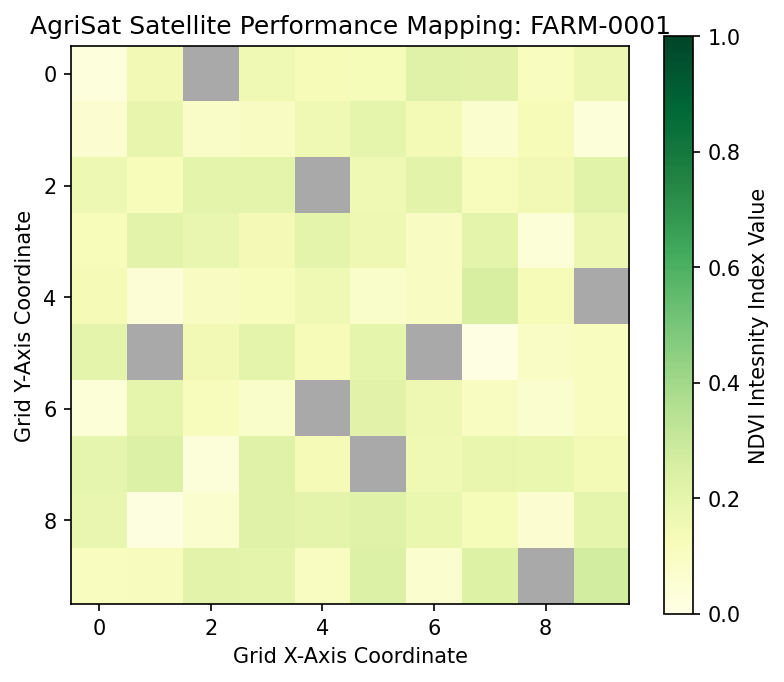
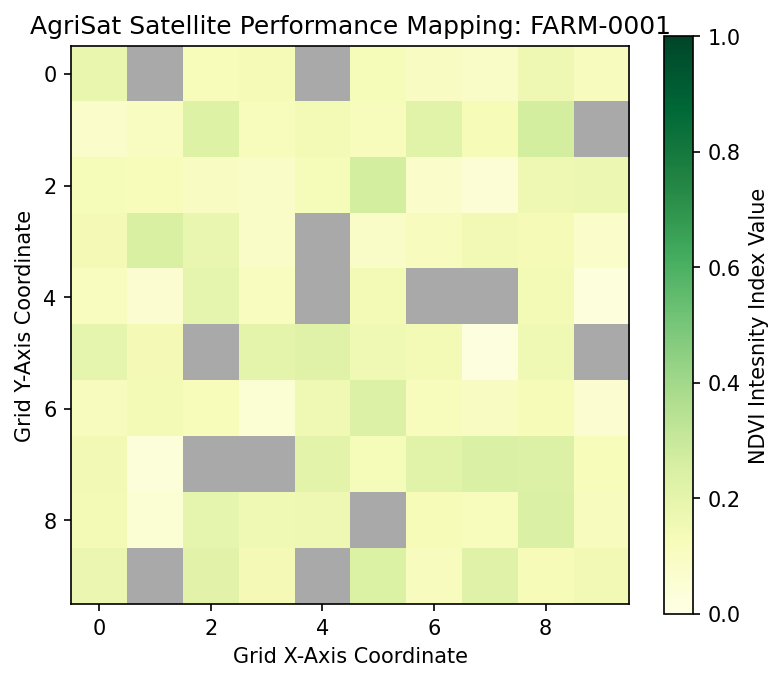
fixed bugs and added fuc

diff --git a/main.py b/main.py
@@ -1,112 +1,112 @@
 import sys
 from datetime import date, timedelta
 import numpy as np
-from engine import FarmWorkspace, genCloudMask, genSpectralBand, calculateNDVI, renderGridMask, temporalTLSweeper, excludeAnomolies, serializeFarmWorkspace, exportNDVIHeatMap
+from engine import FarmWorkspace, genCloudMask, genSpectralBand, calculateNDVI, renderGridMask, temporalTLSweeper, excludeAnomolies, serializeFarmWorkspace, exportNDVIHeatMap, deserializeFarmWorkspace
 from utils import displayTabSummary
 
-def dummyInitialDataTests():
-    print("AgriSat Engine Testing")
-    print("-" * 30)
+# def dummyInitialDataTests():
+#     print("AgriSat Engine Testing")
+#     print("-" * 30)
 
-    testFarm = FarmWorkspace(
-        farmID="FARM-0001",
-        cropType="Rice",
-        geoBoundary=(34.0522, -118.2437, 34.0622, -118.2337)
-    )
+#     testFarm = FarmWorkspace(
+#         farmID="FARM-0001",
+#         cropType="Rice",
+#         geoBoundary=(34.0522, -118.2437, 34.0622, -118.2337)
+#     )
 
-    assert testFarm.farmID == "FARM-0001", "Fail: Farm ID isn't correct"
-    assert testFarm.cropType == "Rice", "Fail: Crop Type is wrong"
-    # print("Farm Object Initialized with correct strucutre")
+#     assert testFarm.farmID == "FARM-0001", "Fail: Farm ID isn't correct"
+#     assert testFarm.cropType == "Rice", "Fail: Crop Type is wrong"
+#     # print("Farm Object Initialized with correct strucutre")
 
-    testShape = (10, 10)
-    redSpectMatrix = genSpectralBand("healthy", "red", shape=testShape)
+#     testShape = (10, 10)
+#     redSpectMatrix = genSpectralBand("healthy", "red", shape=testShape)
 
-    assert isinstance(redSpectMatrix, np.ndarray), "Failed: Output isn't NumPy array"
-    assert redSpectMatrix.shape == testShape , f"Output shape is {redSpectMatrix} instead of {testShape}"
+#     assert isinstance(redSpectMatrix, np.ndarray), "Failed: Output isn't NumPy array"
+#     assert redSpectMatrix.shape == testShape , f"Output shape is {redSpectMatrix} instead of {testShape}"
 
-    healthyRed = genSpectralBand("healthy", "red")
-    healthyNIR = genSpectralBand("healthy", "nir")
+#     healthyRed = genSpectralBand("healthy", "red")
+#     healthyNIR = genSpectralBand("healthy", "nir")
 
-    stressedRed = genSpectralBand("stressed", "red")
-    stressedNIR = genSpectralBand("stressed", "nir")
+#     stressedRed = genSpectralBand("stressed", "red")
+#     stressedNIR = genSpectralBand("stressed", "nir")
 
-    assert np.all((healthyRed >= 0.05) & (healthyRed <= 0.15)), "Failed: Healthy Red out of the expected bounds"
-    assert np.all((healthyNIR >= 0.60) & (healthyNIR <= 0.85)), "Failed: Healthy NIR out the expectd bounds"
-    assert np.all((stressedRed >= 0.60) & (stressedRed <= 0.85)), "Failed: Stressed Red out of expected boundary"
-    assert np.all((stressedNIR >= 0.05) & (stressedNIR <= 0.15)), "Failed: Stressed NIR out of the expected bounds."
+#     assert np.all((healthyRed >= 0.05) & (healthyRed <= 0.15)), "Failed: Healthy Red out of the expected bounds"
+#     assert np.all((healthyNIR >= 0.60) & (healthyNIR <= 0.85)), "Failed: Healthy NIR out the expectd bounds"
+#     assert np.all((stressedRed >= 0.60) & (stressedRed <= 0.85)), "Failed: Stressed Red out of expected boundary"
+#     assert np.all((stressedNIR >= 0.05) & (stressedNIR <= 0.15)), "Failed: Stressed NIR out of the expected bounds."
 
-    cloudyMask = genCloudMask(shape=testShape, coverageProb=0.3)
+#     cloudyMask = genCloudMask(shape=testShape, coverageProb=0.3)
 
-    assert cloudyMask.dtype == bool, "Failed: It must be bool"
-    assert cloudyMask.shape == testShape, "Failed: Cloud mask shape mismatched the expected"
+#     assert cloudyMask.dtype == bool, "Failed: It must be bool"
+#     assert cloudyMask.shape == testShape, "Failed: Cloud mask shape mismatched the expected"
 
-    evaluationDate = date(2026, 6, 15)
-    testFarm.addTelemetrySnapshot(
-        snapShotDate=evaluationDate,
-        redBands=healthyRed,
-        nIRBands=healthyNIR,
-        cloudMask=cloudyMask
-    )
+#     evaluationDate = date(2026, 6, 15)
+#     testFarm.addTelemetrySnapshot(
+#         snapShotDate=evaluationDate,
+#         redBands=healthyRed,
+#         nIRBands=healthyNIR,
+#         cloudMask=cloudyMask
+#     )
 
-    dateKey = evaluationDate.isoformat()
+#     dateKey = evaluationDate.isoformat()
 
-    assert dateKey in testFarm.redBands, "Failed: Red Band save failed"
-    assert dateKey in testFarm.cloudMask, "Cloud mask save failed"
+#     assert dateKey in testFarm.redBands, "Failed: Red Band save failed"
+#     assert dateKey in testFarm.cloudMask, "Cloud mask save failed"
 
-    # print("All tests passed ig")
+#     # print("All tests passed ig")
 
-    ndviResult = calculateNDVI(healthyRed, healthyNIR, cloudyMask)
+#     ndviResult = calculateNDVI(healthyRed, healthyNIR, cloudyMask)
 
-    assert ndviResult.shape == testShape, "Failed: NDVI Matrix mismatch in the shape"
-    nanLocations = np.isnan(ndviResult)
+#     assert ndviResult.shape == testShape, "Failed: NDVI Matrix mismatch in the shape"
+#     nanLocations = np.isnan(ndviResult)
 
-    assert np.array_equal(nanLocations, cloudyMask), "Failed: Cloud masks not mapped to NaN entries"
+#     assert np.array_equal(nanLocations, cloudyMask), "Failed: Cloud masks not mapped to NaN entries"
 
-    clearHealthyValues = ndviResult[~cloudyMask]
-    if clearHealthyValues.size > 0:
-        assert np.all(clearHealthyValues > 0.5), "Failed: Healthy crop yeild low NDVi score"
+#     clearHealthyValues = ndviResult[~cloudyMask]
+#     if clearHealthyValues.size > 0:
+#         assert np.all(clearHealthyValues > 0.5), "Failed: Healthy crop yeild low NDVi score"
 
-    print("Terminal Grid Preview")
-    textGrid = renderGridMask(ndviResult)
-    for rowString in textGrid:
-        print(rowString)
+#     print("Terminal Grid Preview")
+#     textGrid = renderGridMask(ndviResult)
+#     for rowString in textGrid:
+#         print(rowString)
     
-def temporalSimTest():
-    testFarm = FarmWorkspace(
-        farmID="FARM-0001",
-        cropType="Rice",
-        geoBoundary=(34.0522, -118.2437, 34.0622, -118.2337)
-    )
-    baseDate = date(2026, 5, 1)
+# def temporalSimTest():
+#     testFarm = FarmWorkspace(
+#         farmID="FARM-0001",
+#         cropType="Rice",
+#         geoBoundary=(34.0522, -118.2437, 34.0622, -118.2337)
+#     )
+#     baseDate = date(2026, 5, 1)
 
-    for week in range(5):
-        snapShotDate = baseDate + timedelta(weeks=week)
+#     for week in range(5):
+#         snapShotDate = baseDate + timedelta(weeks=week)
 
-        if week == 4:
-            red = genSpectralBand("stressed", "red")
-            nir = genSpectralBand("stressed", "nir")
-        else: 
-            red = genSpectralBand("healthy", "red")
-            nir = genSpectralBand("healthy", "nir")
+#         if week == 4:
+#             red = genSpectralBand("stressed", "red")
+#             nir = genSpectralBand("stressed", "nir")
+#         else: 
+#             red = genSpectralBand("healthy", "red")
+#             nir = genSpectralBand("healthy", "nir")
         
-        mask = genCloudMask(coverageProb=0.15)
-        testFarm.addTelemetrySnapshot(snapShotDate, red, nir, mask)
+#         mask = genCloudMask(coverageProb=0.15)
+#         testFarm.addTelemetrySnapshot(snapShotDate, red, nir, mask)
 
-    serializeFarmWorkspace(testFarm)
-    print("data stored")
+#     serializeFarmWorkspace(testFarm)
+#     print("data stored")
 
-    weeklyMeans = temporalTLSweeper(testFarm)
-    for dateStr, meanValue in weeklyMeans.items():
-        print(f"Week {dateStr}: Mean NDVI: {meanValue:.4f}")
+#     weeklyMeans = temporalTLSweeper(testFarm)
+#     for dateStr, meanValue in weeklyMeans.items():
+#         print(f"Week {dateStr}: Mean NDVI: {meanValue:.4f}")
     
-    activeAlarms = excludeAnomolies(testFarm)
+#     activeAlarms = excludeAnomolies(testFarm)
 
-    for alarm in activeAlarms:
-        print(alarm)
+#     for alarm in activeAlarms:
+#         print(alarm)
 
 
     
-    assert len(activeAlarms) > 0, "Error: Engine didn't flagged suspected issues"
+#     assert len(activeAlarms) > 0, "Error: Engine didn't flagged suspected issues"
 
 
 # dummyInitialDataTests()
@@ -115,6 +115,21 @@ def temporalSimTest():
 
 def seedInitWorkspace() -> dict:
     registry = {}
+    targetIDs = ["FARM-0001", "FARM-0002", "FARM-0003"]
+    loadedFromDisk = False
+
+    for fID in targetIDs:
+        loadedFarm = deserializeFarmWorkspace(fID)
+        if loadedFarm:
+            registry[fID] = loadedFarm
+            loadedFromDisk = True
+
+    if loadedFromDisk:
+        print("Existing Farm Profiles Identified and Restored")
+        return registry
+    
+    print("No saved record found. Using Dummy Data")
+
     cropTypes = ["Rice", "Wheat", "Cotton"]
 
     for i, crop in enumerate(cropTypes, 1):
@@ -138,31 +153,31 @@ def seedInitWorkspace() -> dict:
             
             mask = genCloudMask(coverageProb=0.1)
             farm.addTelemetrySnapshot(snapDate, red, nir, mask)
-        
-        registry[fID] = farm
+            serializeFarmWorkspace(farm)
+            registry[fID] = farm
     return registry
 
 def runInteractiveDashboard():
     farmDb = seedInitWorkspace()
 
-    print("\n" + "-" * 50)
-    print("          AGRISAT CONTROL ENGINE          ")
-    print("-" * 50)
-    print("[1]: View Registered Farms")
-    print("[2]: Run Satellite Diagnostic Scan")
-    print("[3] Generate Anomolous Stress Alerts")
-    print("[4]: Exit")
-    print("-" * 50)
-
     while True:
-        while True:
+        print("\n" + "-" * 50)
+        print("          AGRISAT CONTROL ENGINE          ")
+        print("-" * 50)
+        print("[1]: View Registered Farms")
+        print("[2]: Run Satellite Diagnostic Scan")
+        print("[3] Generate Anomolous Stress Alerts")
+        print("[4]: Exit")
+        print("-" * 50)
+        try:
             userInput = int(input("Select which action to perform: "))
 
-            if userInput == 1 or userInput == 2 or userInput == 3 or userInput == 4:
-                break
-            else:
+            if userInput != 1 and userInput != 2 and userInput != 3 and userInput != 4:
                 print("Please either choose 1, 2, 3 or 4!")
-                pass
+                continue
+        except ValueError:
+            print("Invalid Entry.")
+            continue
         
         if userInput == 1:
             uiList = []
@@ -174,7 +189,7 @@ def runInteractiveDashboard():
                 })
             
             displayTabSummary(uiList)
-            break
+
         elif userInput == 2:
             print("\nSelect target farm registry workspace: ")
             availableIDs = list(farmDb.keys())
@@ -216,14 +231,11 @@ def runInteractiveDashboard():
                     alertFound = True
             if not alertFound:
                 print("Everything is OK uptil now :)")
-            break
         
         elif userInput == 4:
             print("Exiting :(")
             sys.exit(0)
         else:
-            print("Unidentified Input!")
-            break
-        
+            print("Unidentified Input!")        
     
 runInteractiveDashboard()

diff --git a/engine.py b/engine.py
@@ -2,7 +2,7 @@ from dataclasses import dataclass, field
 from typing import List, Tuple, Dict, Optional
 import numpy as np
 from datetime import date
-import os, json
+import os, json, pickle
 import matplotlib.pyplot as plt
 
 @dataclass
@@ -98,13 +98,14 @@ def serializeFarmWorkspace(farm: FarmWorkspace, storageDir: str = "data_store"):
     with open(metaPath, "w") as f:
         json.dump(metaData, f, indent=4)
 
-    arrayPath = os.path.join(storageDir, f"{farm.farmID}_arrays.npz")
-    np.savez_compressed(
-        arrayPath,
-        redBands=farm.redBands,
-        nIRBands=farm.nIRbands,
-        cloudMasks = farm.cloudMask
-    )
+    arrayPath = os.path.join(storageDir, f"{farm.farmID}_arrays.pkl")
+
+    with open(arrayPath, "wb") as f:
+        pickle.dump({
+            "redBands": farm.redBands,
+            "nirBands": farm.nIRbands,
+            "cloudMasks": farm.cloudMask
+        }, f)
 
 def temporalTLSweeper(farm: FarmWorkspace) -> Dict[str, float]:
     temporalMeans = {}
@@ -164,3 +165,27 @@ def exportNDVIHeatMap(ndviMatrix: np.ndarray, farmID: str, outputDir: str = "out
     plt.close()
 
     print(f"Graphical Map Generated and Saved at: {outputPath}")
+
+def deserializeFarmWorkspace(farmID: str, storageDir: str = "data_store") -> Optional[FarmWorkspace]:
+    metaPath = os.path.join(storageDir, f"{farmID}_meta.json")
+    arrayPath = os.path.join(storageDir, f"{farmID}_arrays.pkl")
+
+    if not os.path.exists(metaPath) or not os.path.exists(arrayPath):
+        return None
+    with open(metaPath, "r") as file:
+        metaData = json.load(file)
+    
+    farm = FarmWorkspace(
+        farmID=metaData["farmID"],
+        cropType=metaData["cropType"],
+        geoBoundary=tuple(metaData["geoBoundary"])
+    )
+
+    farm.historicalDates = [date.fromisoformat(d) for d in metaData["historicalDates"]]
+
+    with open(arrayPath, "rb") as f:
+        arrays = pickle.load(f)
+        farm.redBands = arrays["redBands"]
+        farm.nIRbands = arrays["nirBands"]
+        farm.cloudMask = arrays["cloudMasks"]
+    return farm